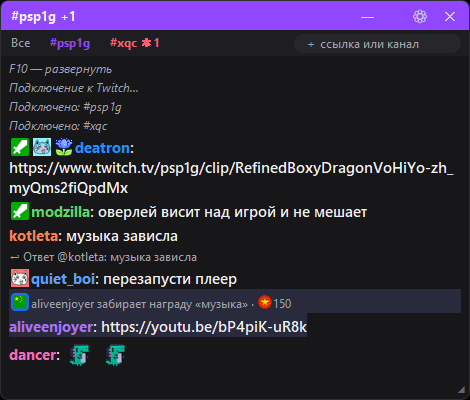
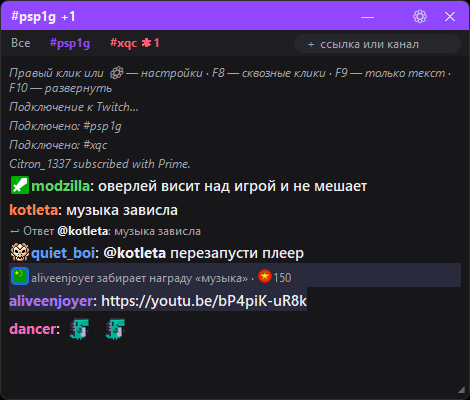
Keep the @mention in reply bodies; bolder reply header nick
- reply text is shown as written, with the leading @nick, so it is
  obvious who is being answered even in the combined feed
- the @nick in the reply header is bold and brighter
- version 1.17.1, docs and screenshots refreshed

diff --git a/docs/index.html b/docs/index.html
@@ -221,7 +221,7 @@
         </a>
         <a class="alt" href="https://github.com/mikolakiyv/twitch-chat-overlay/releases/latest/download/twitch-chat-overlay.zip">версия с исходниками .zip</a>
       </div>
-      <p class="meta"><span id="ver">v1.17.0</span> · 18 МБ · <b>без установки</b> · <b>обновляется сам</b> · Windows 10/11 · rus/eng</p>
+      <p class="meta"><span id="ver">v1.17.1</span> · 18 МБ · <b>без установки</b> · <b>обновляется сам</b> · Windows 10/11 · rus/eng</p>
     </div>
 
     <div class="scene" aria-hidden="true">
@@ -262,6 +262,7 @@
     <h2>Что <em>нового</em></h2>
     <div class="how">
       <ol style="list-style:none; margin-left:0">
+        <li><b>v1.17.1</b> — в ответах виден «@ник», кому отвечают; ник в шапке ответа заметнее</li>
         <li><b>v1.17</b> — автообновление: новые версии качаются в фоне и ставятся при следующем запуске (или по клику ⟳)</li>
         <li><b>v1.16</b> — первое сообщение зрителя выделяется как в 7TV (кромка, подложка, метка)</li>
         <li><b>v1.15</b> — поле «＋ ссылка или канал» над чатом: вставил ссылку — чат открылся</li>

diff --git a/README.md b/README.md
@@ -193,7 +193,8 @@ Twitch, не отправляется. Выйти: меню → «Выйти».
 - Несколько каналов одной лентой, отправка сообщений после входа,
   подсветка упоминаний.
 - **Ответы как на Twitch**: над ответом — строка «↩ Ответ @ник: исходное
-  сообщение» (ник кликабельный), а «@ник» в начале ответа не дублируется.
+  сообщение» (ник кликабельный), а сам текст ответа показывается как есть,
+  с «@ник» в начале — сразу видно, кто кому пишет.
 - **Награды за баллы канала**: над сообщением — иконка награды, «ник
   забирает награду «название»» и цена со значком баллов канала. Работают и
   встроенные награды («Выделить сообщение» — с фиолетовой подсветкой,
